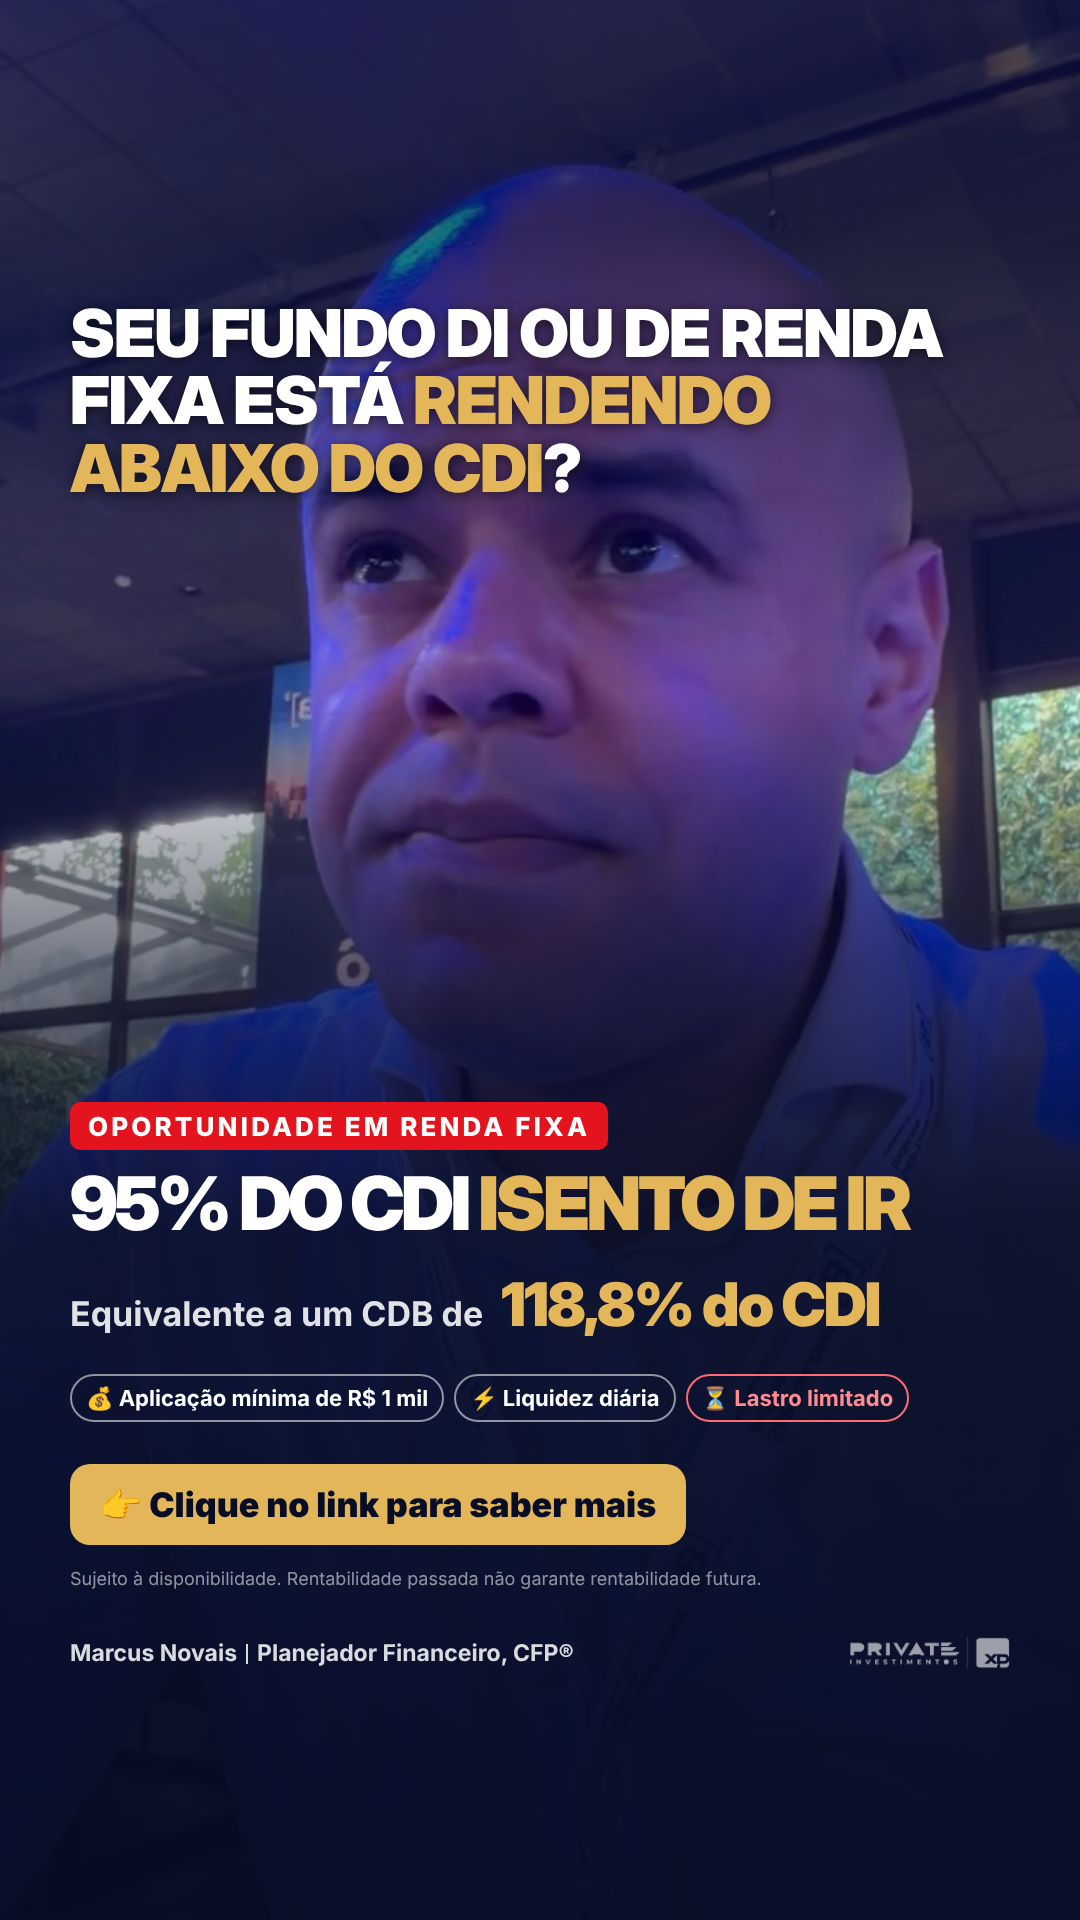
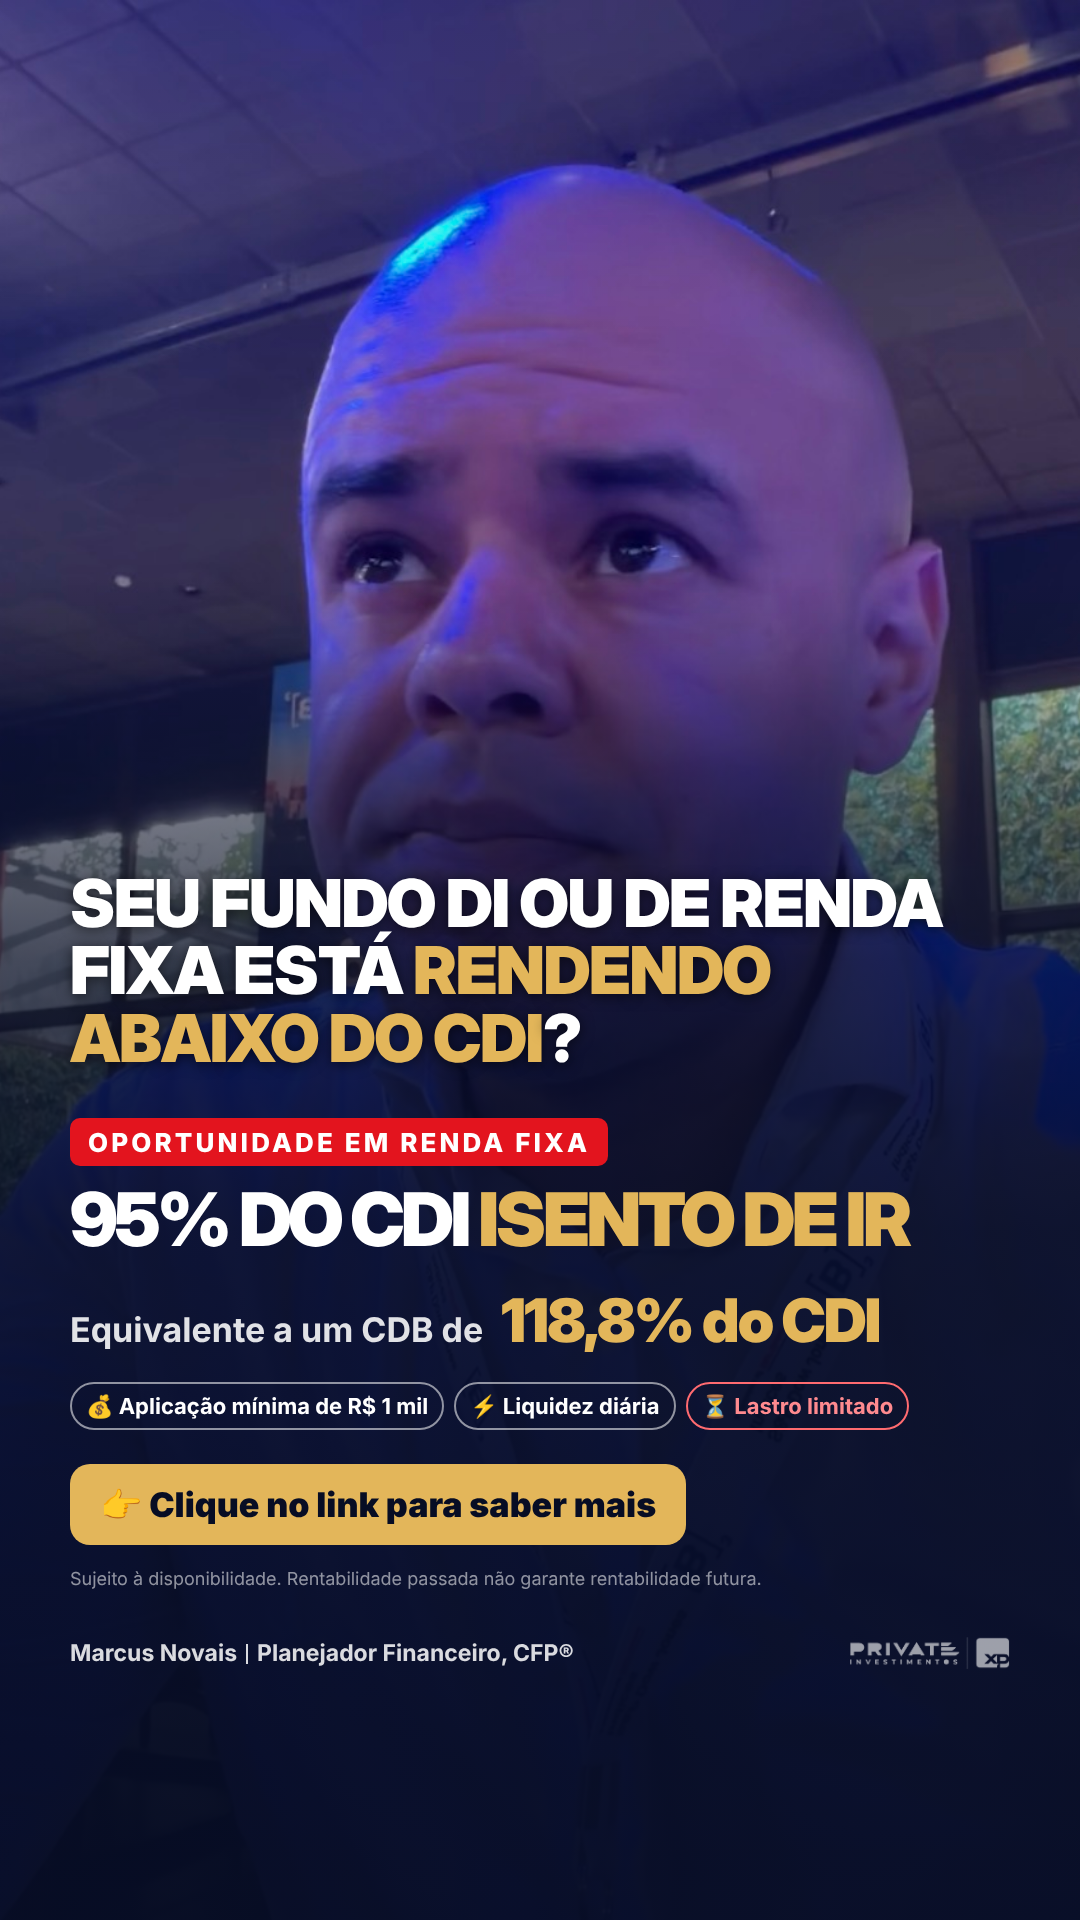
Post 95% CDI isento: título junto do bloco de baixo, rosto livre
Claude-Session: https://claude.ai/code/session_01JkBXj6tz5hpSkGAznkwYEm

diff --git a/post-isento-95cdi/post.html b/post-isento-95cdi/post.html
@@ -7,7 +7,7 @@
   .p.st { height:1920px; }
   body.single .p { display:none; } body.single .p.on { display:block; }
   .bg { position:absolute; inset:0; } .bg img { width:100%; height:100%; object-fit:cover; object-position:50% 22%; }
-  .sh { position:absolute; inset:0; background:linear-gradient(180deg, rgba(7,13,36,.55) 0%, rgba(7,13,36,.6) 12%, rgba(7,13,36,.15) 28%, rgba(7,13,36,0) 36%, rgba(7,13,36,.55) 50%, rgba(7,13,36,.9) 64%, rgba(7,13,36,.96) 100%); }
+  .sh { position:absolute; inset:0; background:linear-gradient(180deg, rgba(7,13,36,.15) 0%, rgba(7,13,36,0) 20%, rgba(7,13,36,0) 30%, rgba(7,13,36,.5) 40%, rgba(7,13,36,.75) 50%, rgba(7,13,36,.9) 64%, rgba(7,13,36,.96) 100%); }
   .top { position:absolute; left:70px; right:70px; }
   .hook { font-family:"Inter Display","Inter",sans-serif; font-weight:900; text-transform:uppercase; font-size:66px; line-height:1.02; letter-spacing:-.02em; text-shadow:0 2px 14px rgba(0,0,0,.6); }
   .hook em { font-style:normal; color:#e3b65a; }
@@ -18,10 +18,10 @@
   .eq { display:flex; align-items:baseline; gap:18px; margin-top:34px; }
   .eq .v { white-space:nowrap; font-family:"Inter Display","Inter",sans-serif; font-weight:900; font-size:60px; color:#e3b65a; letter-spacing:-.03em; line-height:1; }
   .eq .t { font-size:34px; font-weight:700; line-height:1.25; color:rgba(255,255,255,.88); }
-  .chips { display:flex; gap:10px; margin-top:38px; flex-wrap:nowrap; }
+  .chips { display:flex; gap:10px; margin-top:30px; flex-wrap:nowrap; }
   .chips span { white-space:nowrap; border:2px solid rgba(255,255,255,.55); border-radius:40px; padding:9px 14px; font-size:22px; font-weight:700; }
   .chips span.r { border-color:#ff6b70; color:#ff8a8f; }
-  .btn { display:inline-block; margin-top:42px; background:#e3b65a; color:#070d24; font-weight:900; font-size:34px; padding:20px 30px; border-radius:20px; }
+  .btn { display:inline-block; margin-top:34px; background:#e3b65a; color:#070d24; font-weight:900; font-size:34px; padding:20px 30px; border-radius:20px; }
   .fine { font-size:18px; line-height:1.3; color:rgba(255,255,255,.55); margin-top:22px; }
   .foot { position:absolute; left:70px; right:70px; display:flex; justify-content:space-between; align-items:center; font-size:23px; font-weight:700; color:rgba(255,255,255,.85); }
   .foot span { display:inline-block; width:2px; height:20px; background:rgba(255,255,255,.85); margin:0 9px -3px; }
@@ -38,7 +38,7 @@ const body=(top,bot,foot)=>`<div class="bg"><img src="marcus.jpg"></div><div cla
   <div class="btn">👉 Clique no link para saber mais</div>
   <div class="fine">Sujeito à disponibilidade. Rentabilidade passada não garante rentabilidade futura.</div></div>
  <div class="foot" style="bottom:${foot}px"><div>Marcus Novais<span></span>Planejador Financeiro, CFP®</div><img src="logo-private-xp.png"></div>`;
-for (const [cls,top,bot,foot] of [['p',110,115,50],['p st',300,330,250]]) { const s=document.createElement('section'); s.className=cls; s.innerHTML=body(top,bot,foot); document.body.appendChild(s); }
+for (const [cls,top,bot,foot] of [['p',505,115,50],['p st',870,330,250]]) { const s=document.createElement('section'); s.className=cls; s.innerHTML=body(top,bot,foot); document.body.appendChild(s); }
 const all=[...document.querySelectorAll('.p')];
 window.show=i=>{document.body.classList.add('single');all.forEach((s,j)=>s.classList.toggle('on',j===i));};
 </script>
